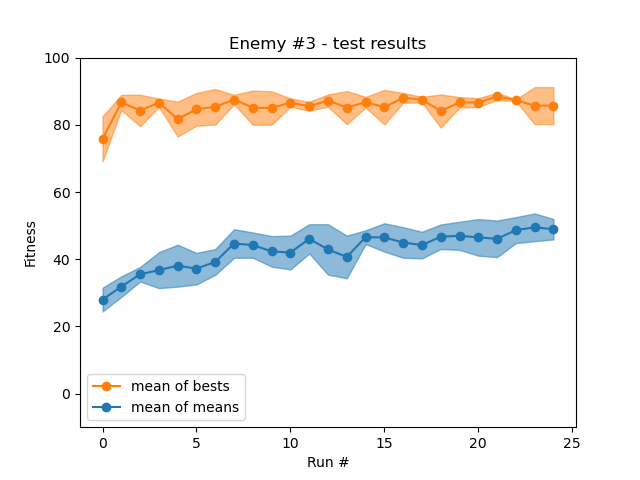
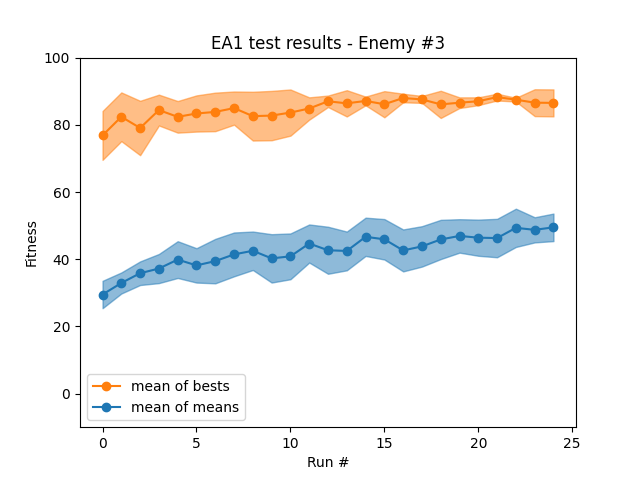
plots

diff --git a/plot.py b/plot.py
@@ -10,11 +10,11 @@ best = np.zeros((0, 25))
 means = np.zeros((0, 25))
 for i in range(N_TESTS):
     if EA == 2:
-        file = np.loadtxt(f'./enemy{ENEMY}_test{i+1}/results.txt', skiprows=1, max_rows=N_GENS)
+        file = np.loadtxt(f'./EA2 results/enemy{ENEMY}_test{i+1}/results.txt', skiprows=1, max_rows=N_GENS)
         best = np.vstack((best, file[:, 1]))
         means = np.vstack((means, file[:, 2]))
     else:
-        file = np.loadtxt(f'./Pygad_Chan_enemy{ENEMY}_experiment{i+1}/results.txt', skiprows=1, max_rows=N_GENS)
+        file = np.loadtxt(f'./EA1 results/Pygad_enemy{ENEMY}_test{i+1}/results.txt', skiprows=1, max_rows=N_GENS)
         best = np.vstack((best, file[:, 3]))
         means = np.vstack((means, file[:, 1]))
 
@@ -31,7 +31,7 @@ plt.fill_between(range(25), best_mean-best_std, best_mean+best_std, color='tab:o
 plt.plot(means_mean, label='mean of means', color='tab:blue', marker='o')
 plt.fill_between(range(25), means_mean-means_std, means_mean+means_std, color='tab:blue', alpha=0.5)
 
-plt.title(f'Enemy #{ENEMY} - test results')
+plt.title(f'EA{EA} test results - Enemy #{ENEMY}')
 plt.ylim(-10, 100)
 plt.xlabel('Run #')
 plt.ylabel('Fitness')
